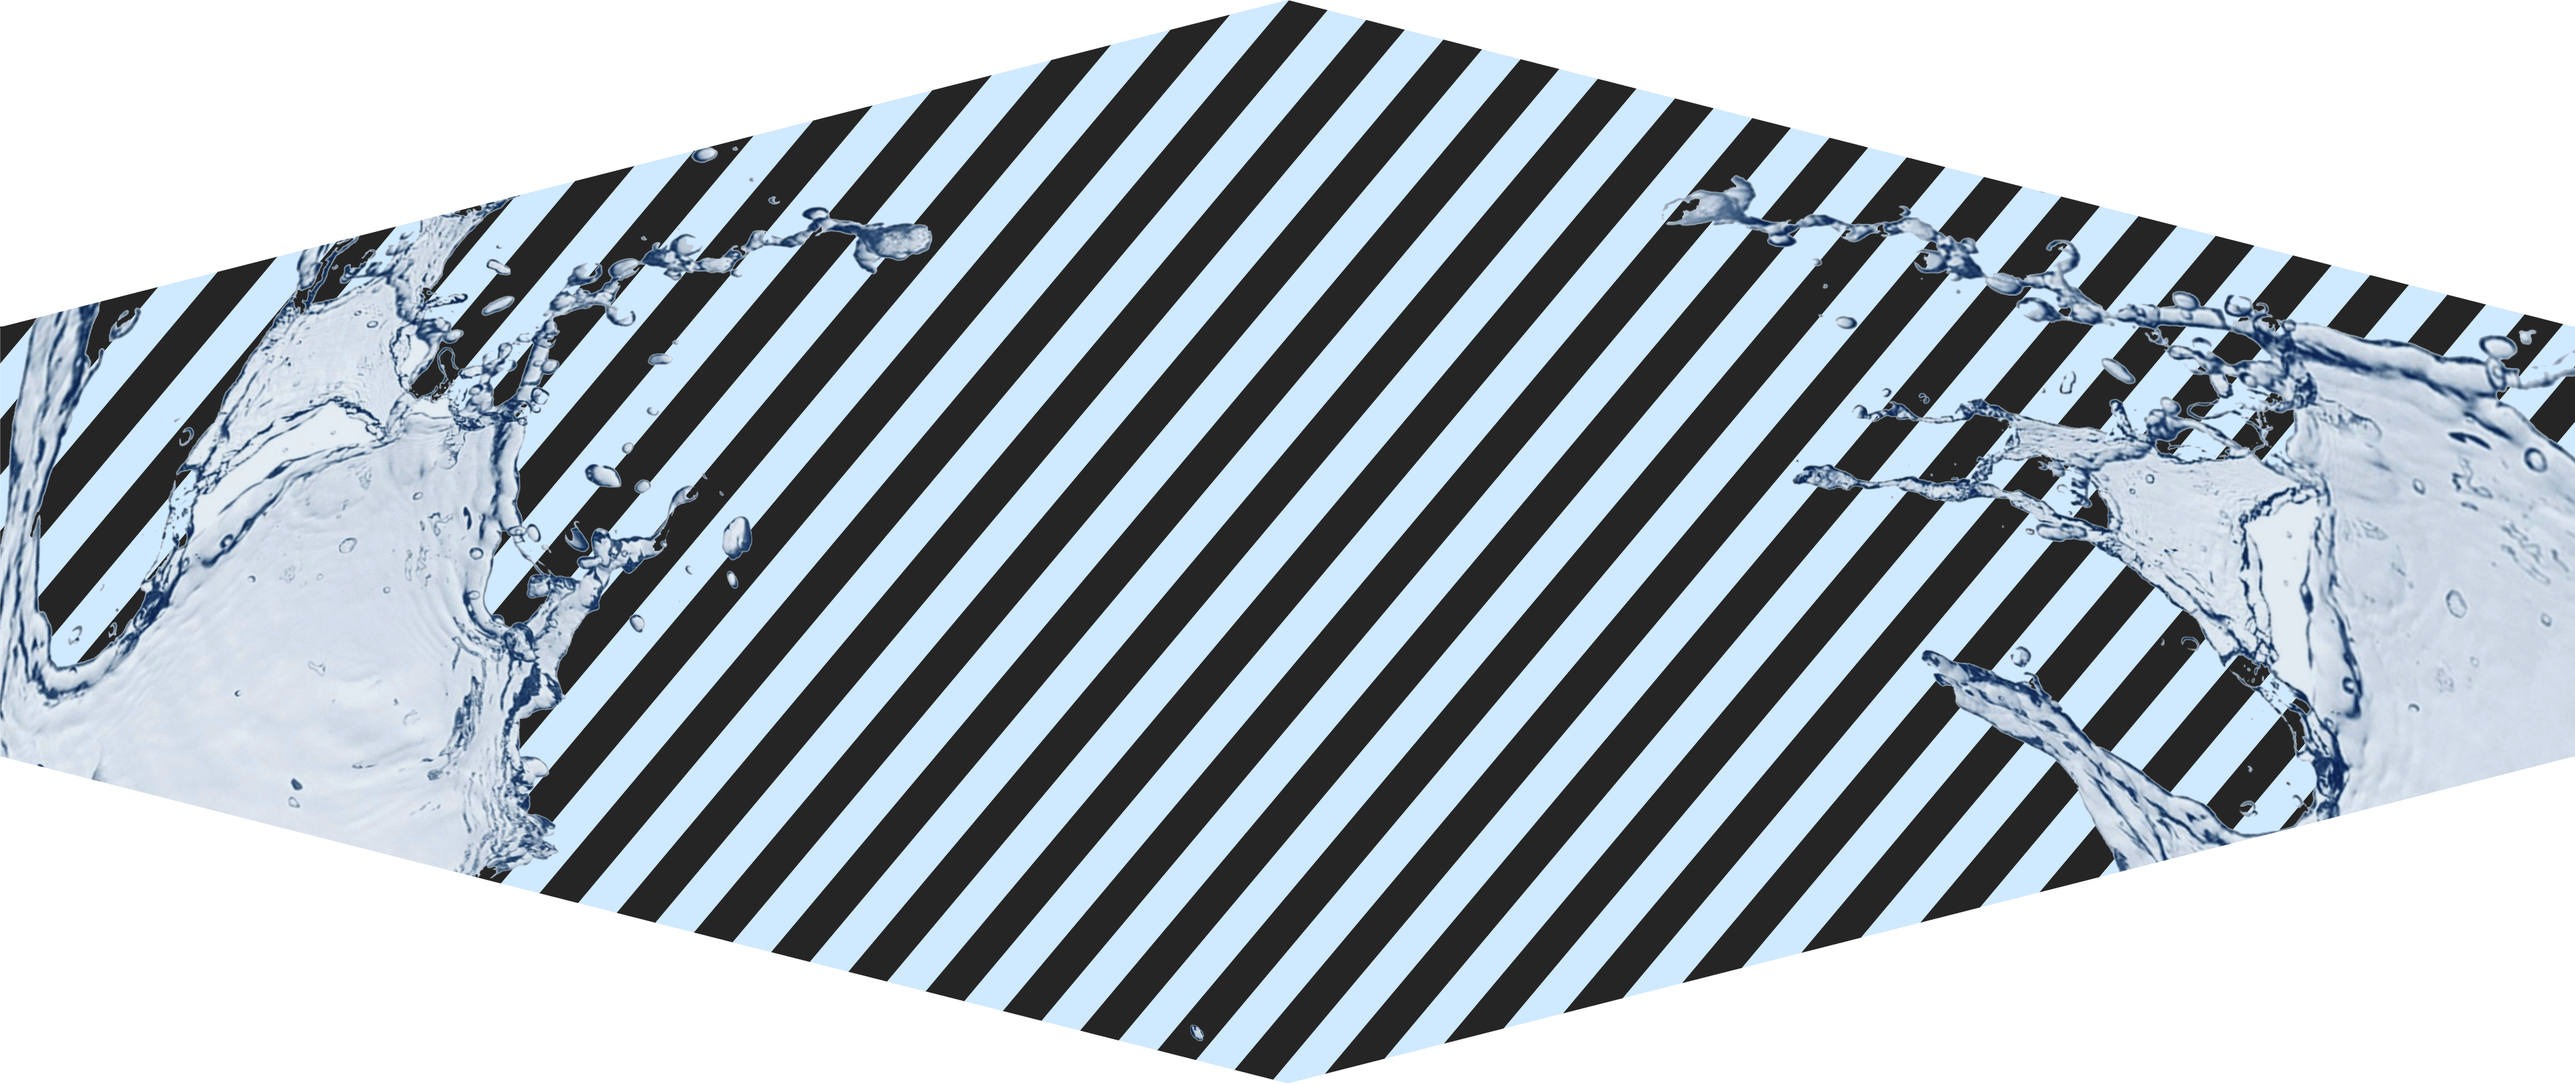
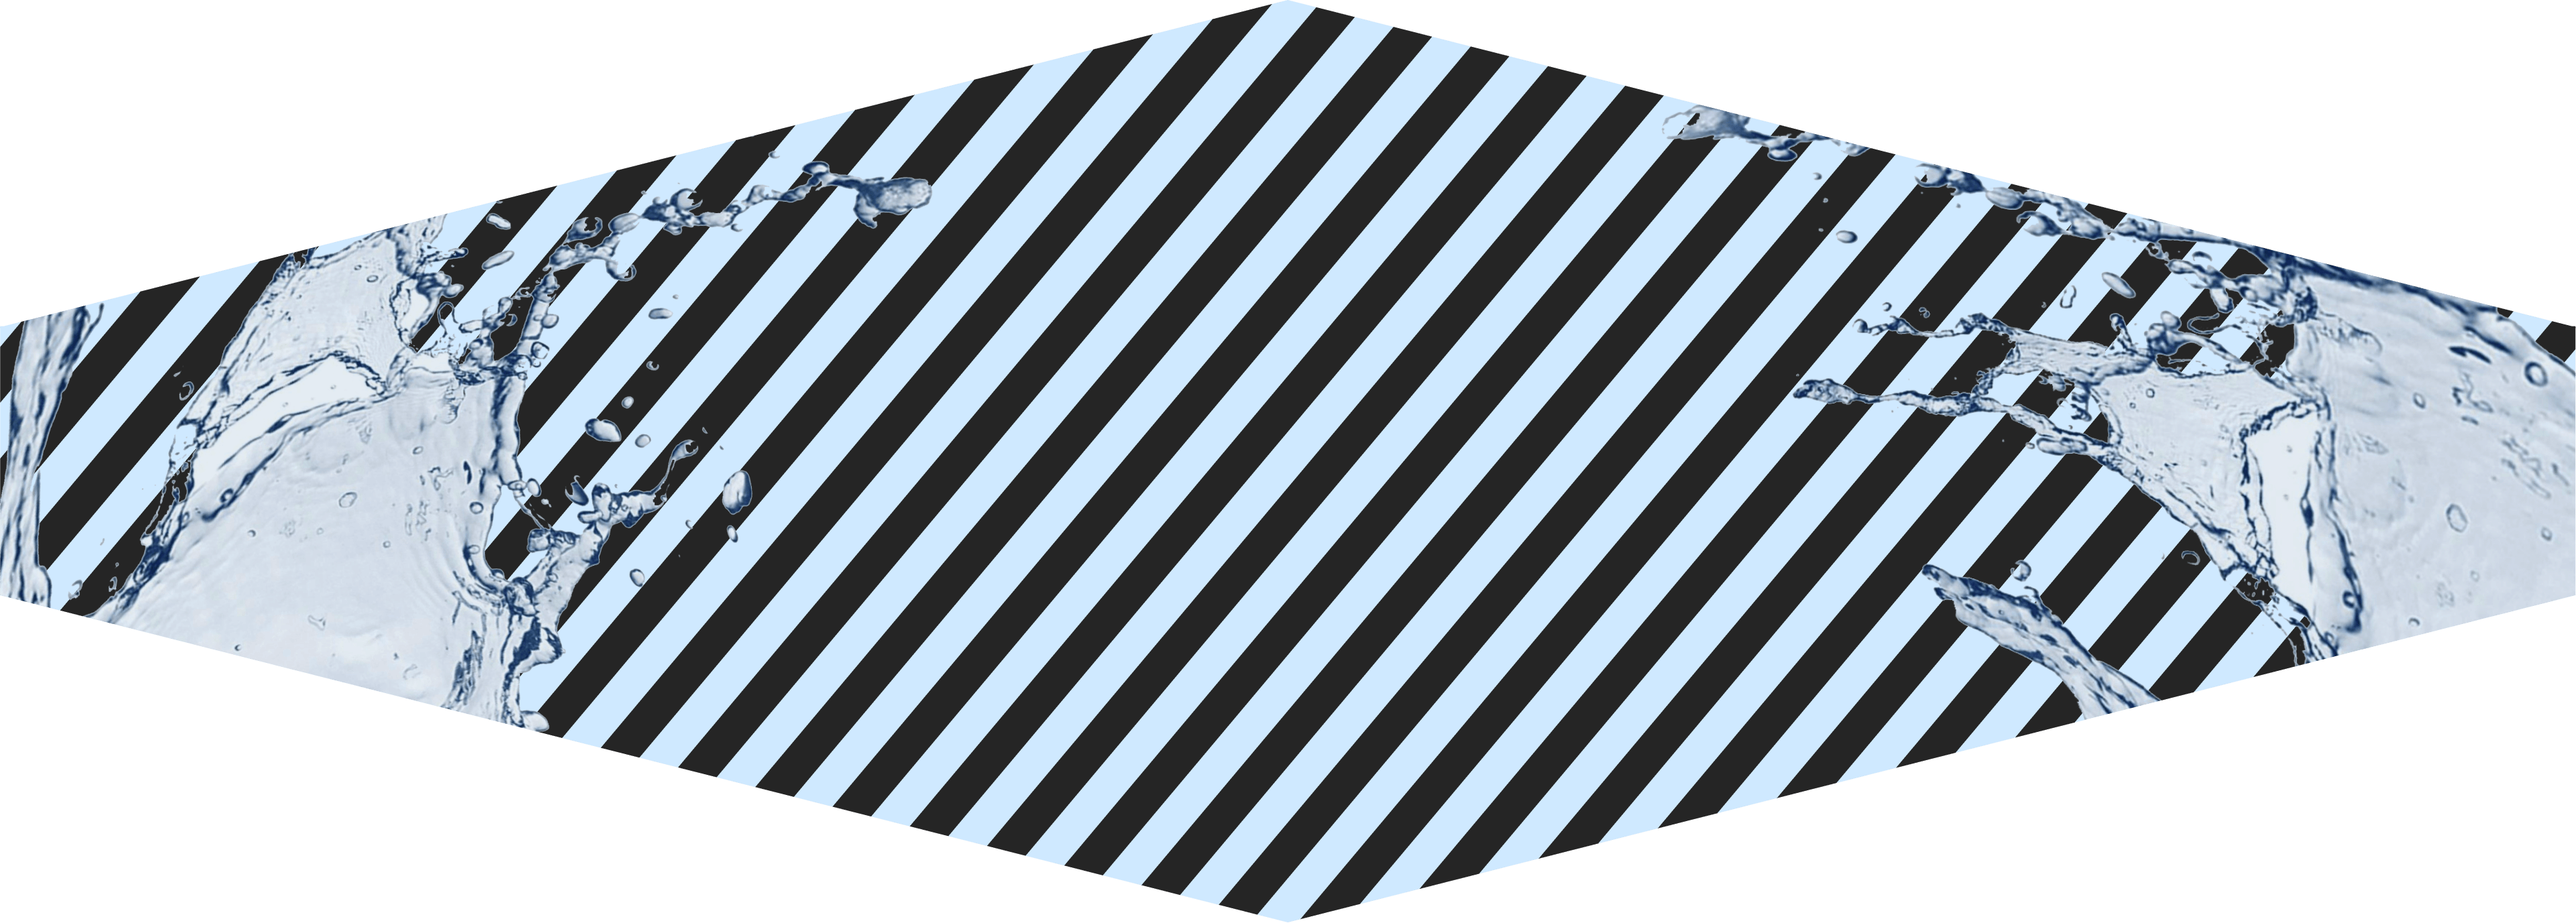
touble背景調整

diff --git a/src/scss/common.scss b/src/scss/common.scss
@@ -98,7 +98,7 @@
     margin-top: calc(-1 * #{mx.autoClamp(50, 310)});
   }
   &__title {
-    padding-block: mx.autoClampSp(105, 130, 370);
+    padding-block: mx.autoClampSp(105, 130, 300);
     background: url(../assets/trouble-title-bg-sp.png) center center no-repeat;
     background-size: cover;
 
